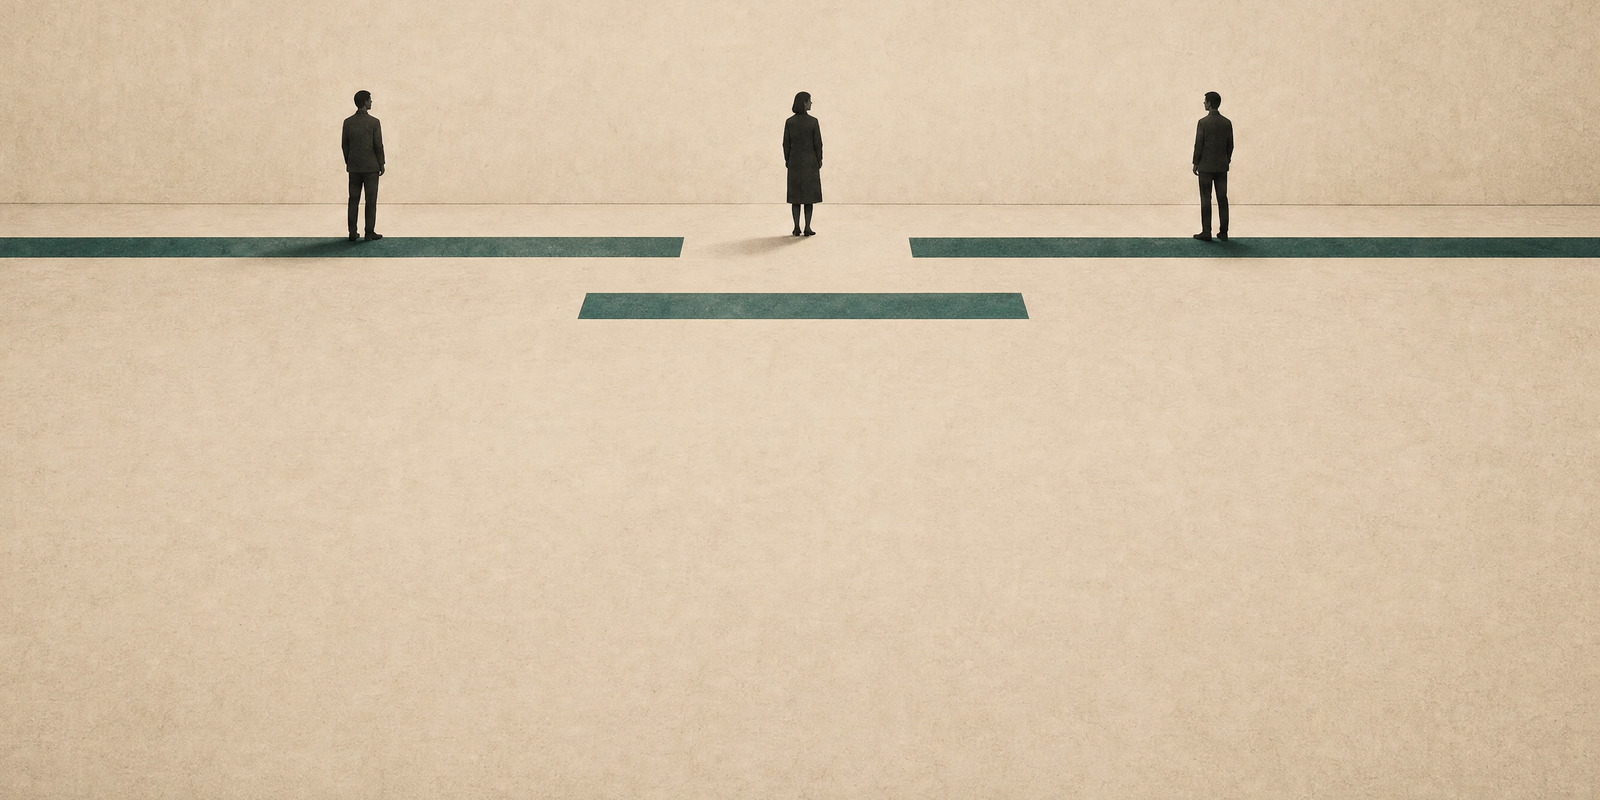
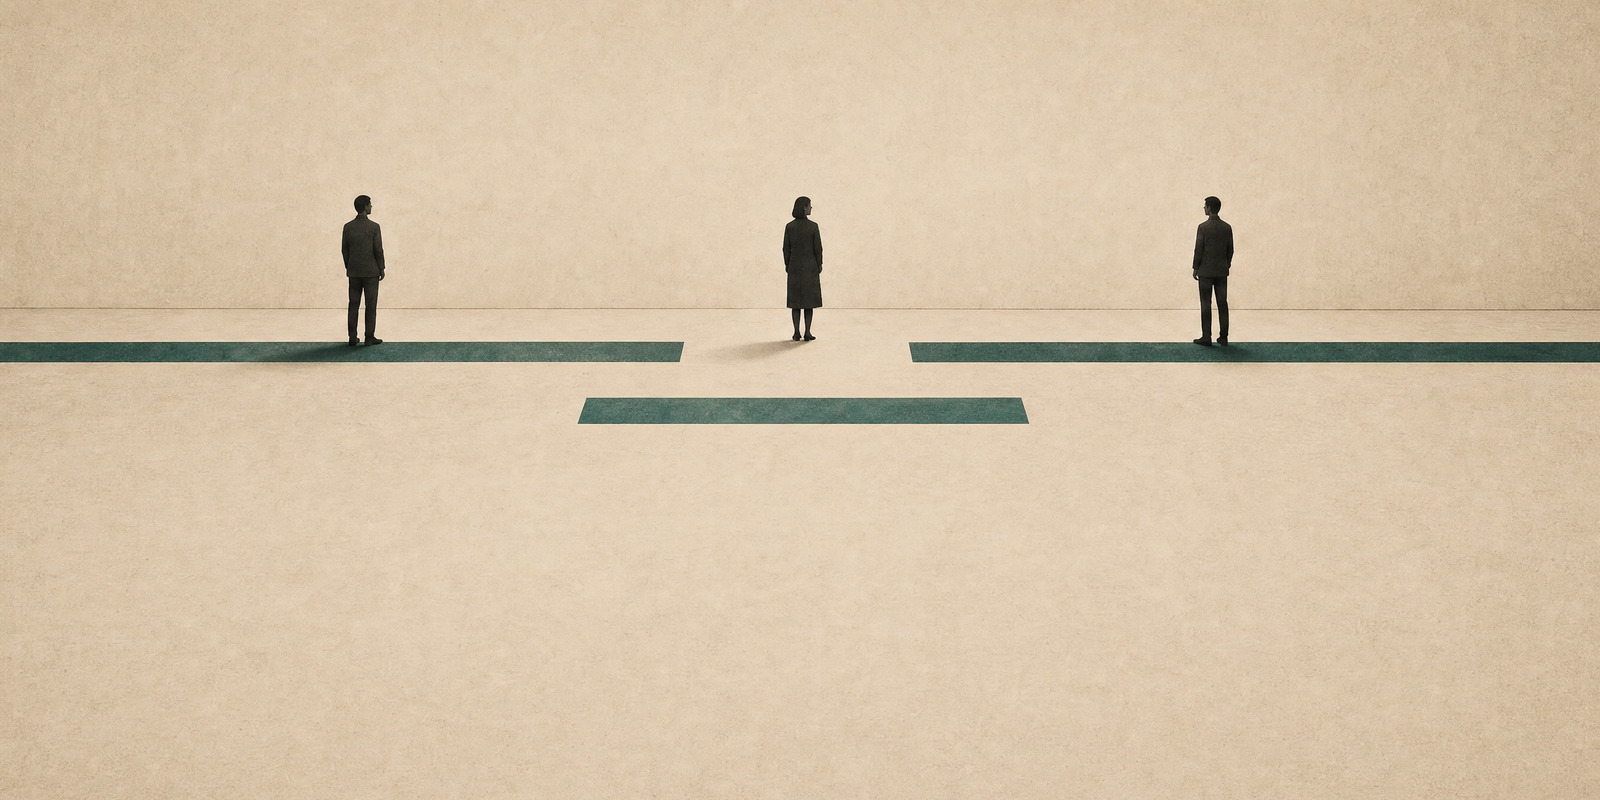
배너 크롭을 콘텐츠 중심으로 — 그림이 천장에 붙어 있었다
크롭 규칙이 「하늘·여백부터 자른다」였다. 콘텐츠가 프레임을 가득 채우는 구도에서는
맞는데, **오버레이 세이프 때문에 콘텐츠를 위쪽 절반에 몰아 둔 배너**에서는 이미
높은 것을 더 높이 밀어 올린다. 시리즈 00 배너가 그 자리였다 — 띠 29~39%,
인물 11~39%. 위쪽 여백 176px 을 통째로 잘라 그림이 천장에 붙었다.

자르는 자리를 **콘텐츠 덩어리의 세로 중심**으로 정한다. 결과의 42%(중앙에서
살짝 위)에 그 중심이 오게 한다. 콘텐츠가 프레임을 채우는 구도에서는 중심이
어차피 가운데라 잘라낼 여유에 걸려 종전과 같은 자리로 수렴한다 — 앞선 다섯
시리즈의 크롭은 달라지지 않는다.

  띠 29~39% → 42~52% · 인물 11~39% → 24~52%
  하단 40% 청록·인물 화소 0 (오버레이 세이프 유지)
  톤 그대로 : p95 211.5 (가족 211.9)

정본도 같이 고쳤다 — SKILL.md §5-2 · finish_covers.crop_banner(anchor=0.42).

Changed region(s): [[0.0, 0.0938, 1.0, 0.5312]]

diff --git a/series/life-universe/index.html b/series/life-universe/index.html
@@ -12,14 +12,14 @@
 <meta property="og:title" content="Life Universe · Making of">
 <meta property="og:description" content="앞선 다섯 시리즈 열다섯 편 말미에 붙은 한 줄이 실제로 무엇이었는지, 처음 50일 동안 무엇을 했는지의 중간 보고 세 편.">
 <meta property="og:url" content="https://kiheonshin.github.io/blog-post-assets/series/life-universe/">
-<meta property="og:image" content="https://kiheonshin.github.io/blog-post-assets/series/life-universe/assets/series-banner.jpg?v=20260809a">
-<meta property="og:image:secure_url" content="https://kiheonshin.github.io/blog-post-assets/series/life-universe/assets/series-banner.jpg?v=20260809a">
+<meta property="og:image" content="https://kiheonshin.github.io/blog-post-assets/series/life-universe/assets/series-banner.jpg?v=20260809b">
+<meta property="og:image:secure_url" content="https://kiheonshin.github.io/blog-post-assets/series/life-universe/assets/series-banner.jpg?v=20260809b">
 <meta property="og:image:type" content="image/jpeg">
 <meta property="og:image:width" content="1600">
 <meta property="og:image:height" content="800">
 <meta property="og:image:alt" content="00 · Life Universe · Making of 키 비주얼">
 <meta name="twitter:card" content="summary_large_image">
-<meta name="twitter:image" content="https://kiheonshin.github.io/blog-post-assets/series/life-universe/assets/series-banner.jpg?v=20260809a">
+<meta name="twitter:image" content="https://kiheonshin.github.io/blog-post-assets/series/life-universe/assets/series-banner.jpg?v=20260809b">
 <script async src="https://www.googletagmanager.com/gtag/js?id=G-SQYBGPJFJ4"></script>
 <script>
 window.dataLayer=window.dataLayer||[];

diff --git a/assets/content-manifest.js b/assets/content-manifest.js
@@ -23,7 +23,7 @@ export const contentLibrary = {
       // 커버 세트 설치 [2026-08-09]. 은유는 「이 글을 닫는 한 줄이 세 조각으로
       // 갈리고 각 조각을 한 편씩 맡는다」. 액센트 청록은 앞선 다섯이 쓴
       // 주황·남색·보라와 색상환에서 떨어져 있어 목록에서 이 시리즈만 갈린다.
-      cover: "series/life-universe/assets/series-banner.jpg?v=20260809a",
+      cover: "series/life-universe/assets/series-banner.jpg?v=20260809b",
       coverAlt:
         "청록색 상감 띠가 바닥을 가로지르다 두 조각으로 갈리고 세 번째 조각이 그 줄 밖에 따로 놓인 Life Universe 파노라마",
       published: "2026-08-08",
